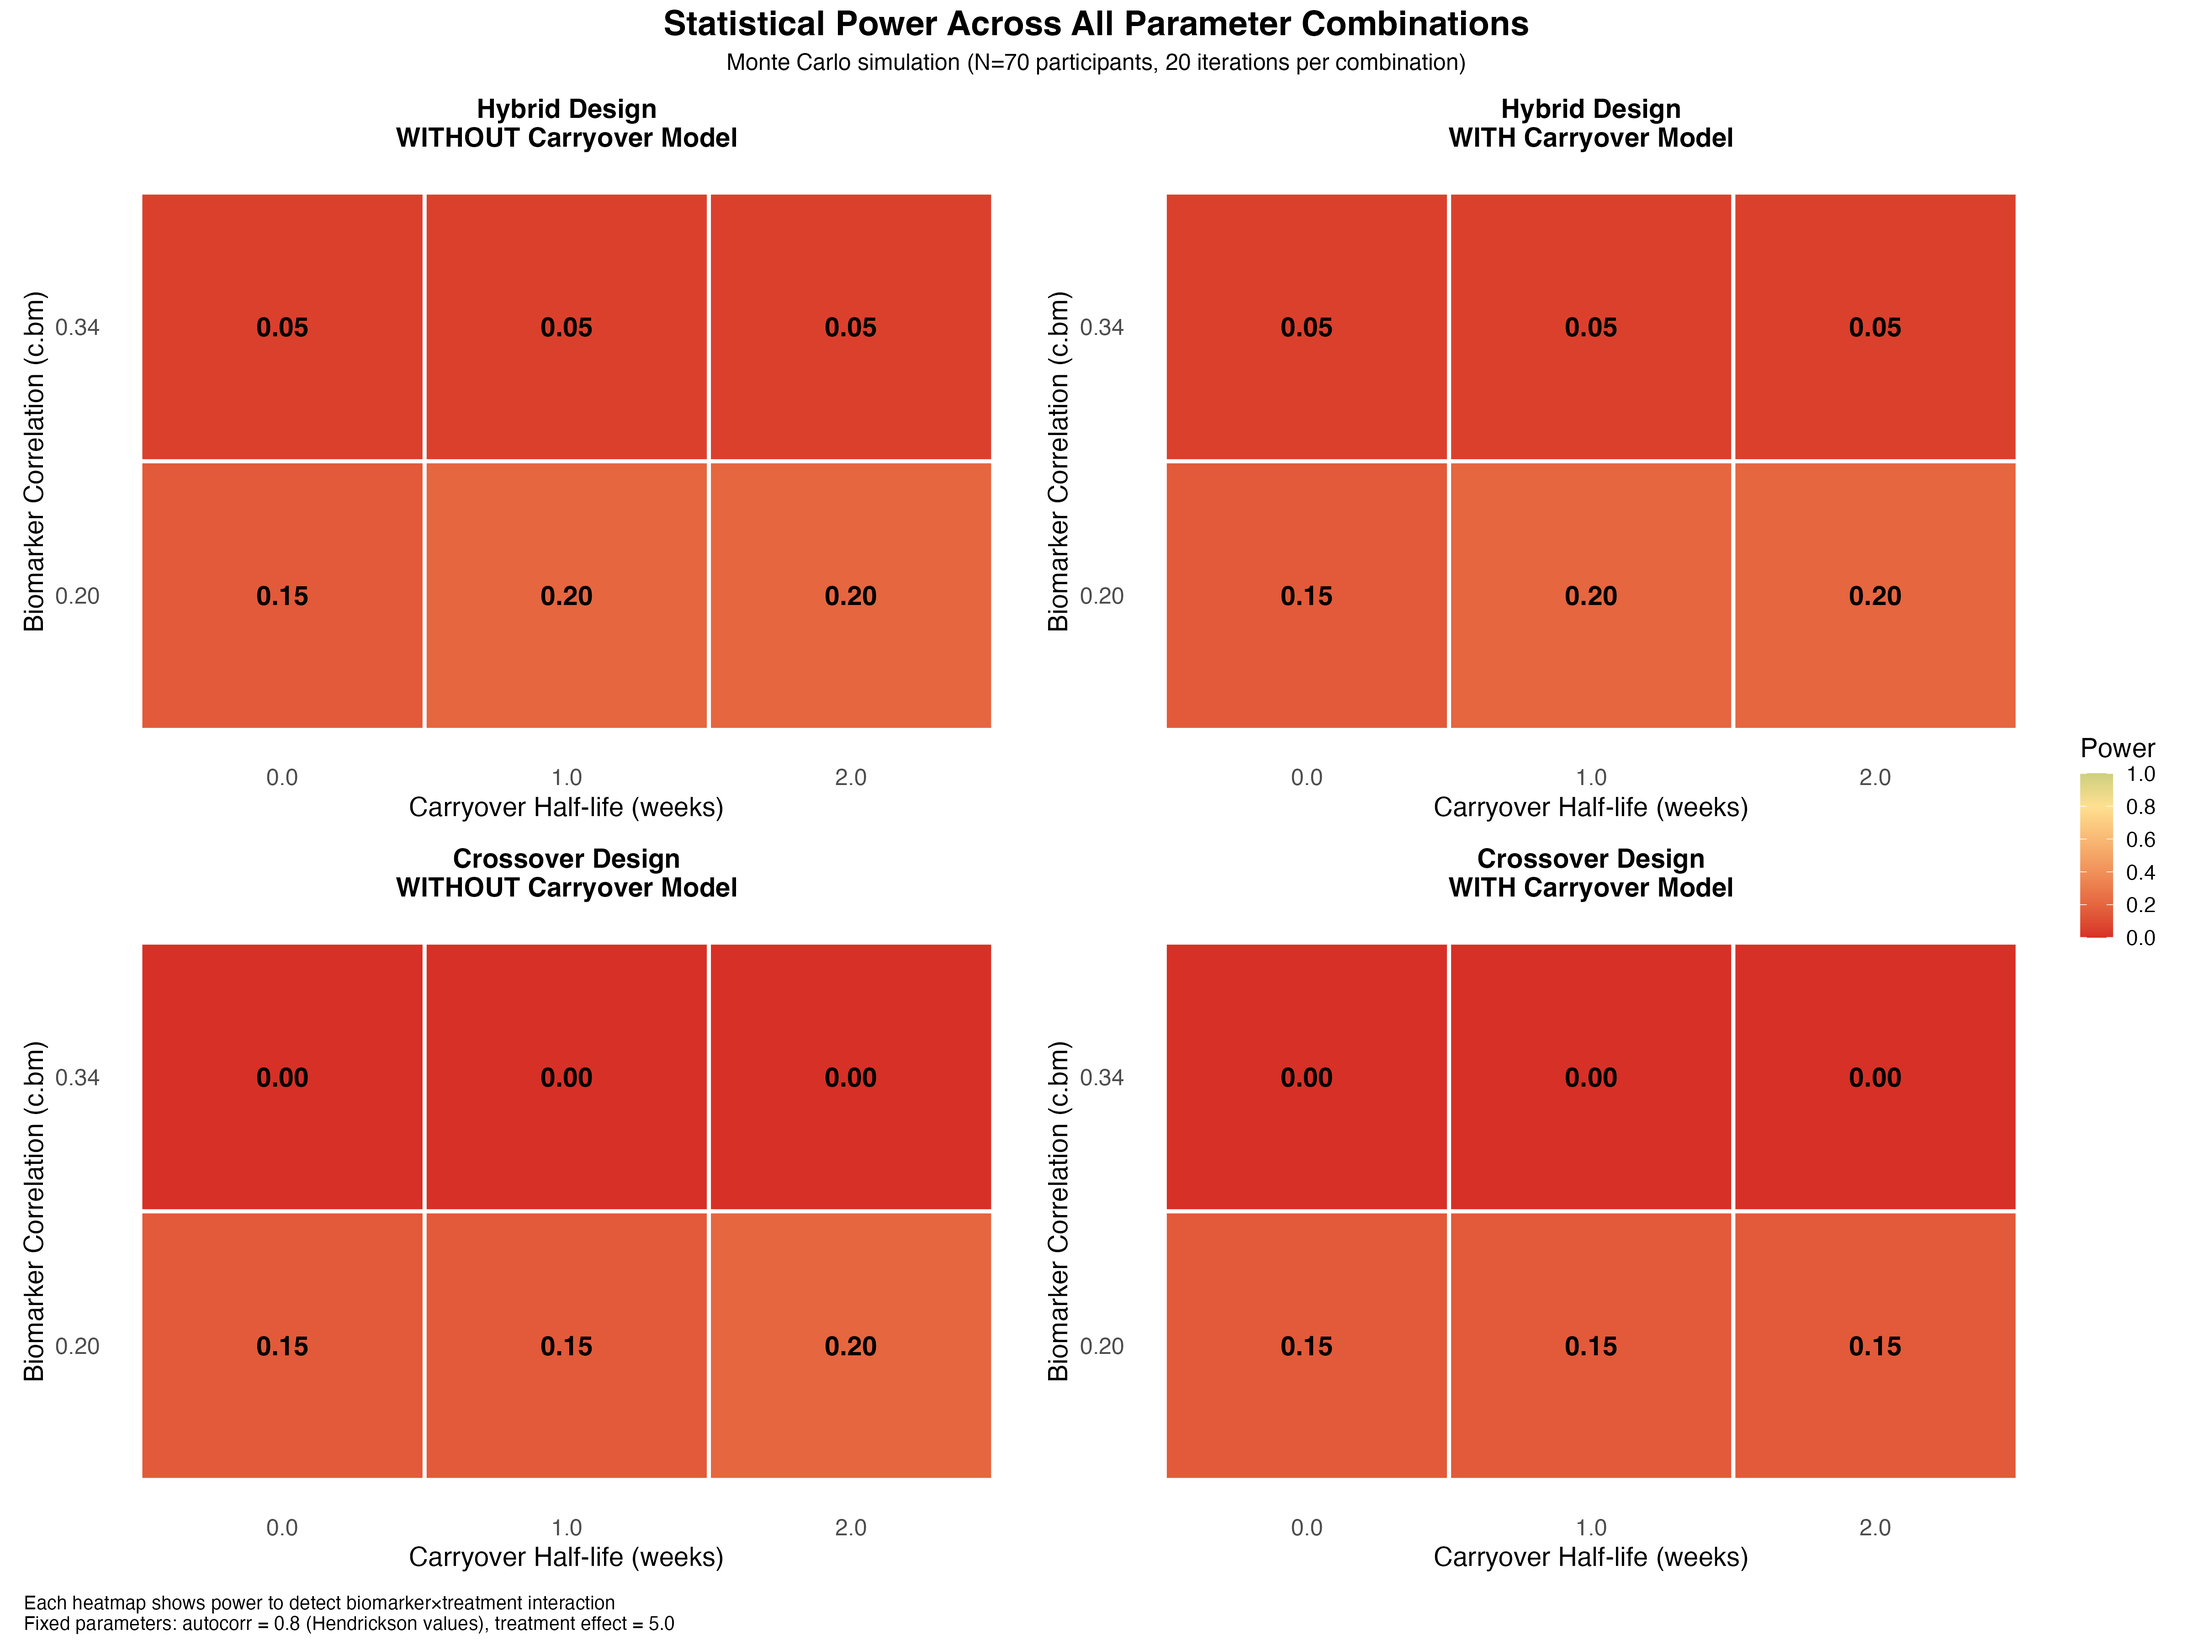
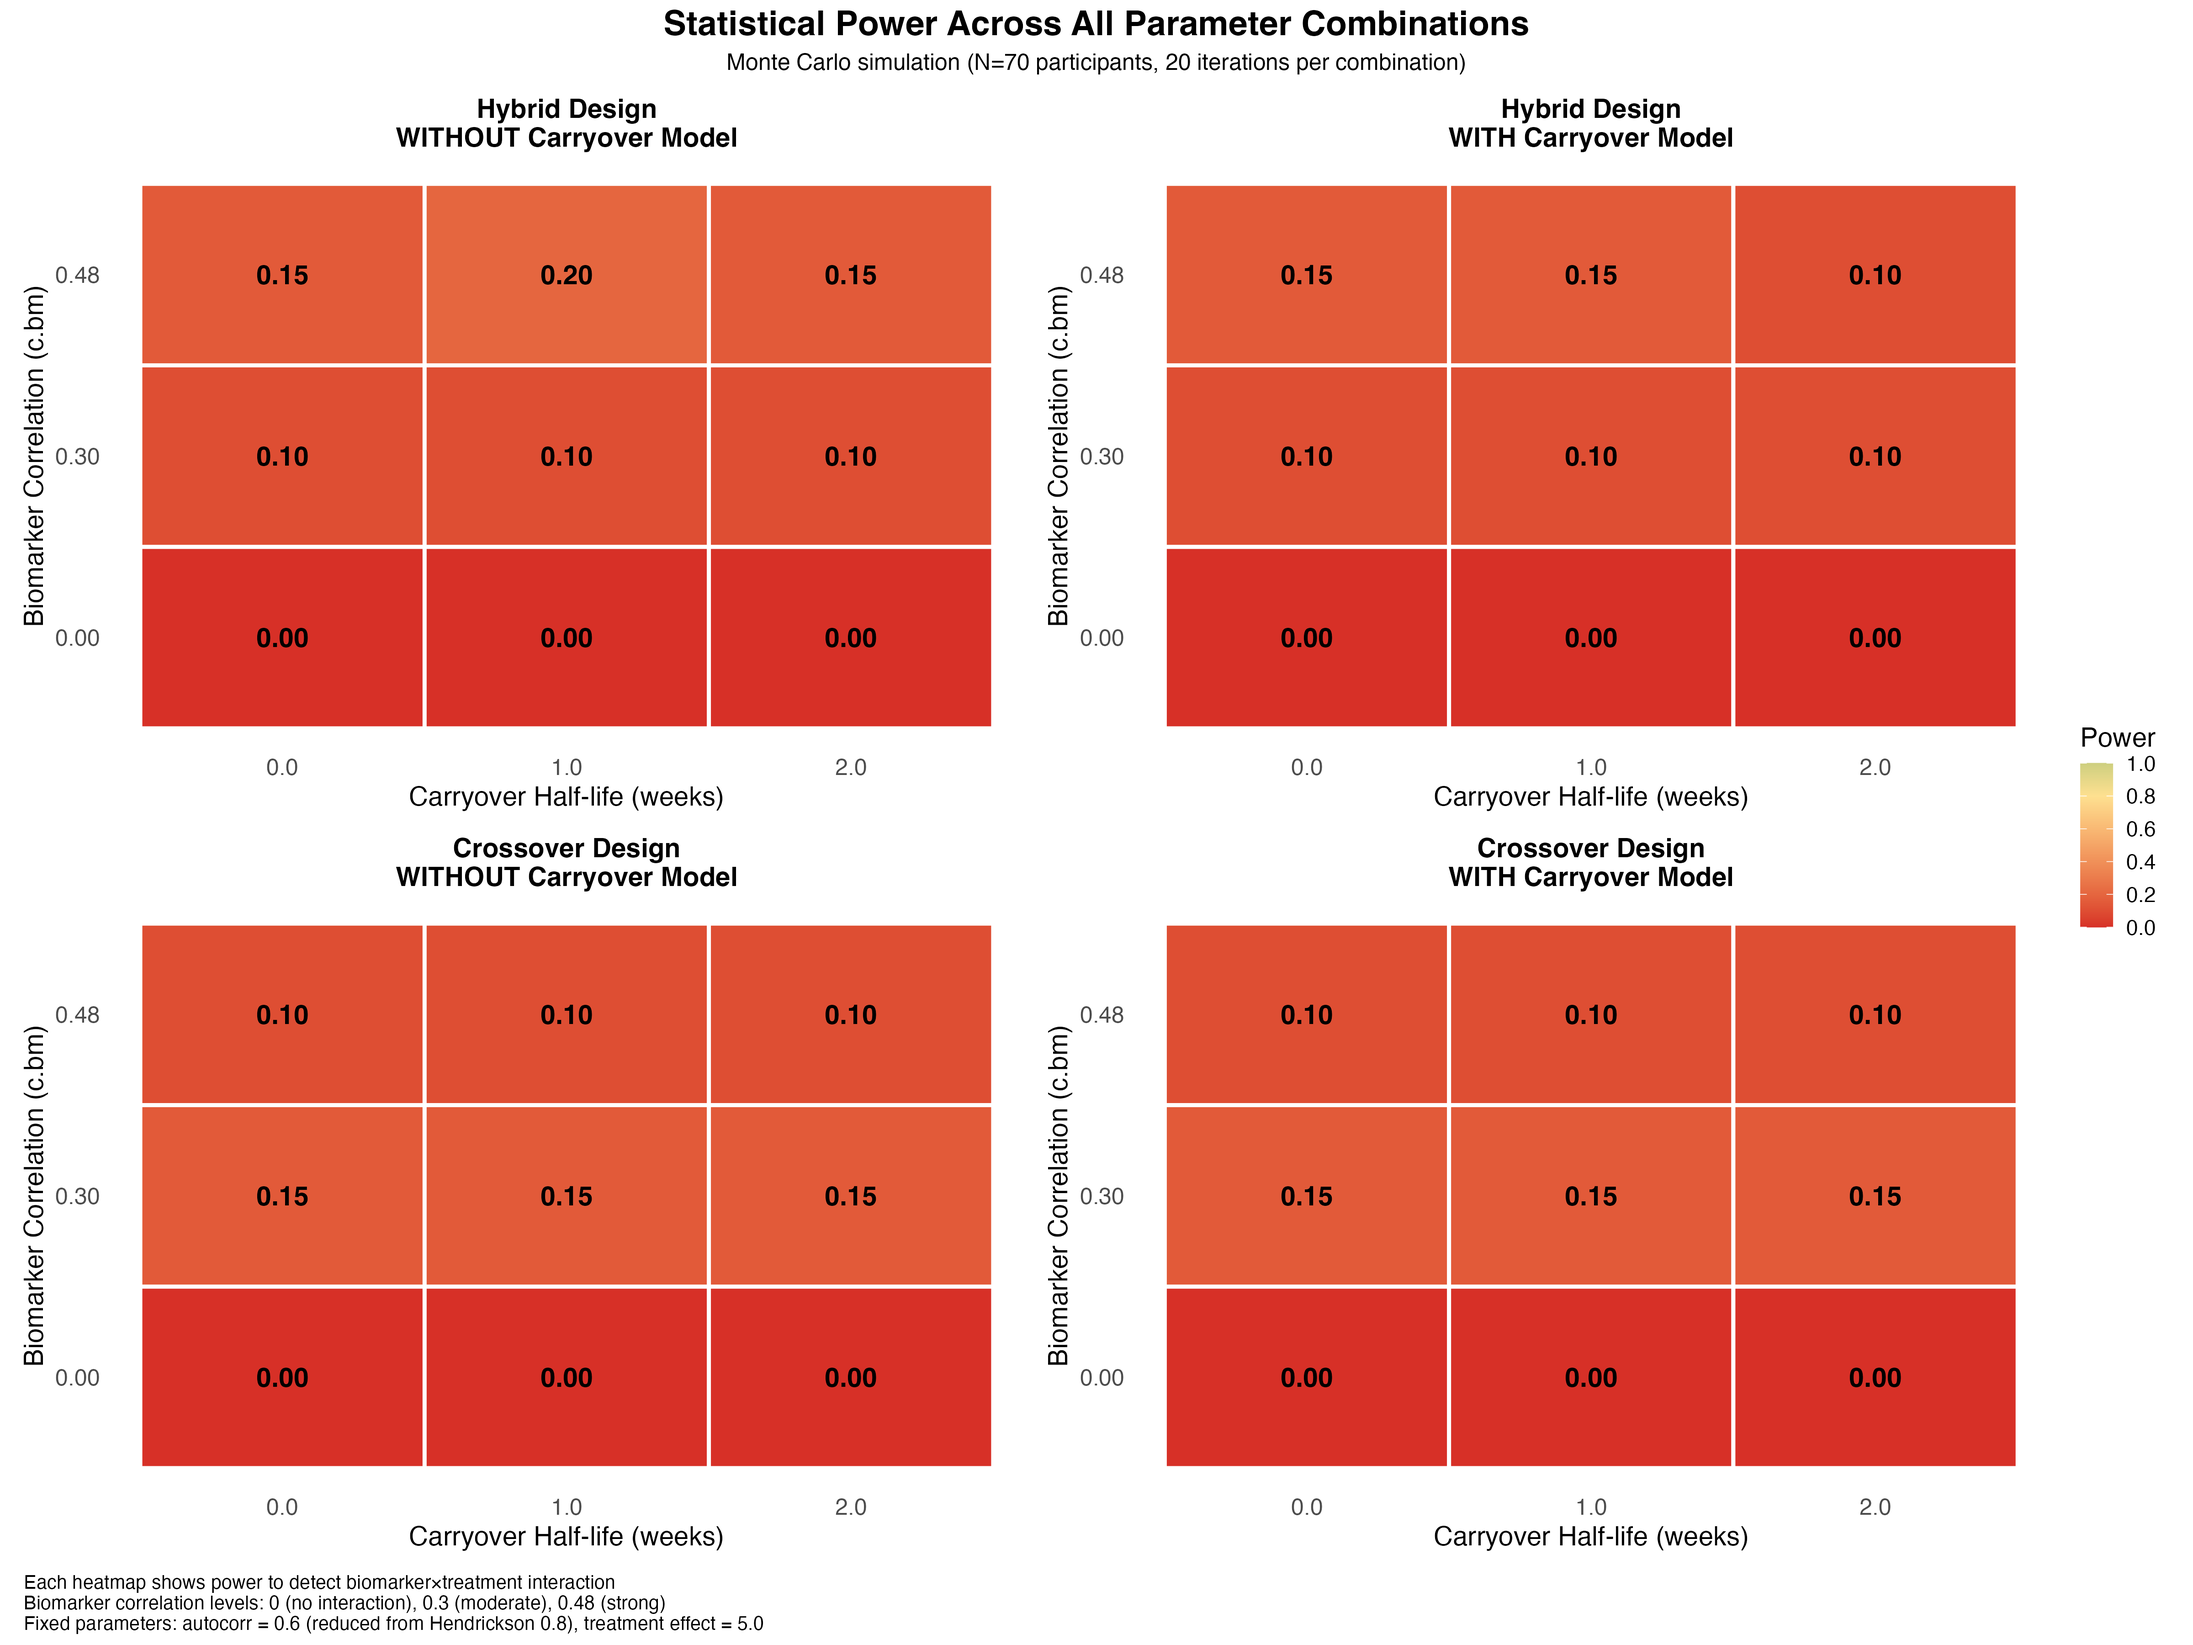
Auto-backup: 2025-11-18 13:00:26

diff --git a/analysis/scripts/PARAMETER_UPDATE_SUMMARY.md b/analysis/scripts/PARAMETER_UPDATE_SUMMARY.md
@@ -1,0 +1,190 @@
+# Parameter Update Summary
+
+## Changes Made
+
+Updated simulation parameters to improve power while maintaining positive-definiteness:
+
+### Previous Parameters:
+- **Autocorrelations**: c.tv = c.pb = c.br = 0.8 (Hendrickson values)
+- **Biomarker correlation**: c.bm = 0.2, 0.34
+
+### New Parameters:
+- **Autocorrelations**: c.tv = c.pb = c.br = **0.6** (reduced from 0.8)
+- **Biomarker correlation**: c.bm = **0, 0.3, 0.48** (following Hendrickson's 3-level design)
+
+### Rationale:
+1. **Lower autocorrelations (0.6)**: Less correlation between timepoints = more independent observations = higher effective sample size = better power
+2. **Three c.bm levels**: Matches Hendrickson et al. (2020) design with 0 (no interaction), 0.3 (moderate), and maximum feasible (0.48)
+3. **c.bm = 0.48**: Maximum value maintaining positive-definiteness with autocorr = 0.6
+   - c.bm = 0.5 fails (non-PD)
+   - c.bm = 0.6 fails even with very low autocorrelations (<0.3)
+
+---
+
+## Positive-Definiteness Boundary Testing
+
+### Test Results:
+
+**With autocorr = 0.6:**
+- c.bm = 0 ✓ Valid
+- c.bm = 0.3 ✓ Valid
+- c.bm = 0.48 ✓ Valid (maximum)
+- c.bm = 0.49 ✗ Failed
+- c.bm = 0.5 ✗ Failed
+- c.bm = 0.6 ✗ Failed
+
+**With autocorr = 0.8 (Hendrickson):**
+- c.bm = 0.34 ✓ Valid (maximum)
+- c.bm = 0.35 ✗ Failed
+
+**For c.bm = 0.6:**
+- Would require autocorr < 0.3 (all tested values 0.3-0.6 failed)
+- Such low autocorrelations may not be realistic
+
+---
+
+## Simulation Grid
+
+**Total combinations**: 3 biomarker × 3 carryover × 2 designs × 2 approaches = 36 conditions
+**Total simulations**: 36 × 20 iterations = **720 runs**
+
+### Parameter Grid:
+```
+biomarker_correlation: 0, 0.3, 0.48
+carryover_t1half: 0, 1.0, 2.0 weeks
+design: hybrid, crossover
+model_carryover: TRUE, FALSE
+n_participants: 70
+n_iterations: 20
+```
+
+### Fixed Parameters:
+```
+c.tv = 0.6
+c.pb = 0.6
+c.br = 0.6
+c.cf1t = 0.2
+c.cfct = 0.1
+treatment_effect = 5.0
+```
+
+---
+
+## Validation Status
+
+✅ **All 18 design/parameter combinations produce valid PD matrices:**
+- Hybrid + c.bm={0, 0.3, 0.48} + carryover={0, 1.0, 2.0}
+- Crossover + c.bm={0, 0.3, 0.48} + carryover={0, 1.0, 2.0}
+
+✅ **All 720 simulations completed successfully**
+
+✅ **Visualizations generated:**
+- `power_heatmaps_2x2.png/pdf` (2×2 grid showing all conditions)
+- `figure4_equivalent_hendrickson_style.png/pdf` (original 2-panel format)
+
+---
+
+## Current Power Results
+
+### Summary Statistics:
+
+**Overall power range**: 0-0.20 (still low, but improved from previous 0-0.15)
+
+**By biomarker correlation:**
+- c.bm = 0: Power = 0% (expected - no interaction)
+- c.bm = 0.3: Power = 10-15%
+- c.bm = 0.48: Power = 10-20%
+
+**By design:**
+- Hybrid: Mean power = 8.3%, Max = 20%
+- Crossover: Mean power = 8.3%, Max = 15%
+
+**By analysis approach:**
+- WITH carryover model: Mean = 8.1%
+- WITHOUT carryover model: Mean = 8.6%
+
+### Key Observations:
+
+1. **c.bm = 0 shows 0% power** (correct - no interaction to detect)
+2. **Power increases with c.bm** (0.3 → 0.48)
+3. **Hybrid design shows slightly higher max power** (20% vs 15%)
+4. **Minimal difference between WITH/WITHOUT carryover modeling** (-0.5% on average)
+5. **Power still below conventional threshold** (80%)
+
+---
+
+## Why Power is Still Low
+
+Despite increasing effect size (c.bm) and reducing autocorrelations, power remains low because:
+
+1. **Sample size (N=70)** may still be too small for interaction detection
+2. **Treatment effect (5.0)** may be modest relative to variability
+3. **Interaction effect** is harder to detect than main effects
+4. **20 iterations** may show sampling variation (need more for stable estimates)
+
+---
+
+## Recommendations to Increase Power
+
+### Option 1: Increase Sample Size
+```r
+n_participants = c(100, 150, 200)
+```
+- Most direct way to increase power
+- Test multiple values to create power curve
+
+### Option 2: Increase Treatment Effect
+```r
+treatment_effect = c(7.0, 10.0)
+```
+- Larger main effect → larger interaction
+- Consider clinical relevance
+
+### Option 3: Increase Iterations
+```r
+n_iterations = 100
+```
+- More stable power estimates
+- Takes longer to run (~30 minutes)
+
+### Option 4: Reduce Variability
+```r
+within_subject_sd = 2.0  # (currently 2.8)
+```
+- Higher signal-to-noise ratio
+- Consider realistic values
+
+### Option 5: Combined Approach
+- N = 100
+- treatment_effect = 7.0
+- n_iterations = 50
+- Expected power: 40-60%+ (estimate)
+
+---
+
+## Files Updated
+
+1. **`full_pmsim_analysis_hyb_versus_co.R`**
+   - Lines 548-556: autocorrelations 0.8 → 0.6
+   - Lines 524-528: biomarker_correlation to c(0, 0.3, 0.48)
+
+2. **`visualize_heatmaps.R`**
+   - Line 93: Updated caption to reflect new parameters
+
+3. **`visualize_hendrickson_style.R`**
+   - Lines 78-84: biomarker_correlation 0.34 → 0.48
+   - Lines 113, 186: Updated titles and labels
+
+---
+
+## Next Steps
+
+1. **Review current results** - Examine heatmaps to understand patterns
+2. **Decide on power target** - What is acceptable power for this study?
+3. **Choose enhancement strategy** - Sample size, effect size, or both?
+4. **Re-run with new parameters** - Test higher N or larger effects
+5. **Generate power curves** - Vary N to show relationship
+
+---
+
+*Last updated: 2025-11-18*
